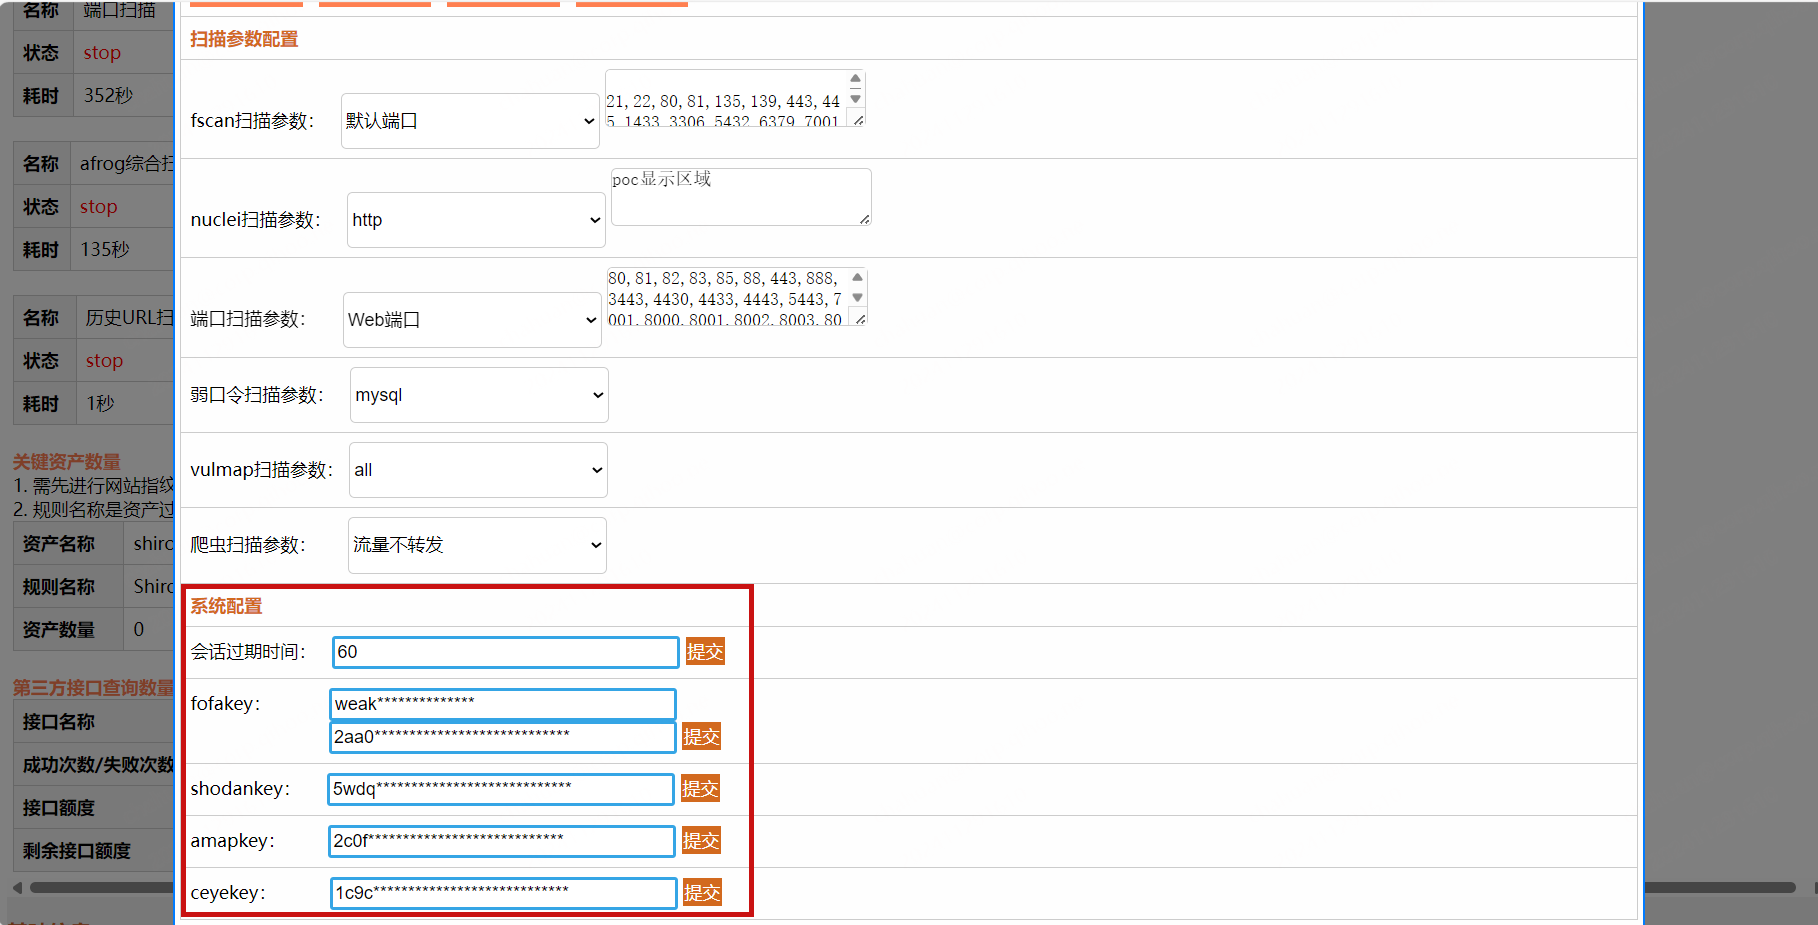
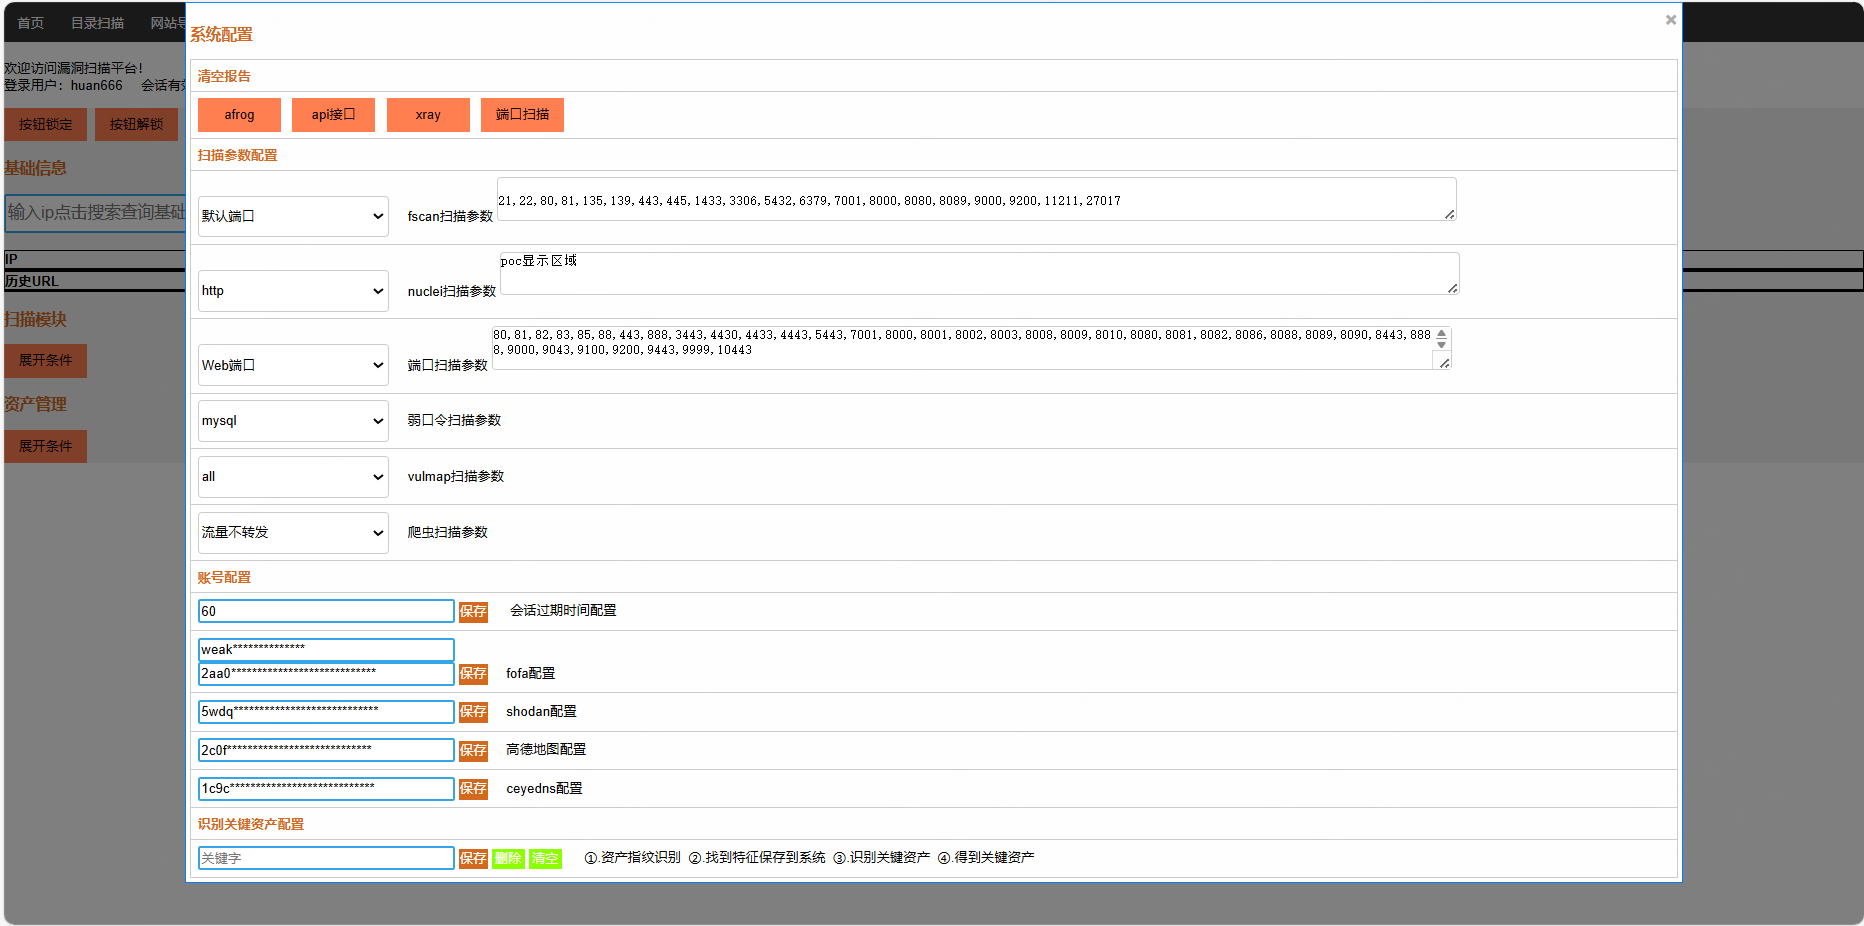
系统优化

Changed region(s): [[0.0, 0.0, 1.0, 1.0], [0.7701, 0.3632, 0.8009, 0.3935], [0.4004, 0.7265, 0.4312, 0.7568]]

diff --git a/templates/tanchuang.html b/templates/tanchuang.html
@@ -201,7 +201,9 @@
     <div class="modal-content1">
 
         <span class="close" onclick="stopscanconfigpagefunc()">&times;</span>
+        <h3>系统配置</h3>
         <table border="1">
+           
             <tr>
                 <td>
                     <strong style="color: chocolate;">清空报告</strong><br>
@@ -222,7 +224,7 @@
             </tr>
             <tr>
                 <td>
-                    fscan扫描参数：&nbsp;&nbsp;
+
                     <select name="fscanpartname" onmouseout="fscanportshowfunc()">
 
                         <option
@@ -246,6 +248,7 @@
                             常见RCE端口</option>
                         <option value="21,22,53,80,443,445,1433,3306,3389,8080">精简端口</option>
                     </select>
+                    &nbsp;&nbsp;&nbsp;&nbsp;fscan扫描参数
                     <textarea rows="3" cols="80" id="myTextarea2" onmouseover="fscantextarea_onhover()"
                         onmouseout="fscantextarea_onout()">
 							21,22,80,81,135,139,443,445,1433,3306,5432,6379,7001,8000,8080,8089,9000,9200,11211,27017</textarea>
@@ -253,7 +256,7 @@
             </tr>
             <tr>
                 <td>
-                    nuclei扫描参数：&nbsp;&nbsp;
+
                     <select name="poc_dir" onmouseenter="nuclei_poc_show_func()">
                         <option value="/root/nuclei-templates/http">http</option>
                         <option value="/root/nuclei-templates/http/cnvd">http_cnvd</option>
@@ -295,6 +298,7 @@
                         <option value="/root/nuclei-templates/config">config</option>
                         <option value="/root/nuclei-templates/code">code</option>
                     </select>
+                    &nbsp;&nbsp;&nbsp;&nbsp;nuclei扫描参数
                     <textarea rows="3" cols="80" id="myTextarea3" onmouseover="nucleitextarea_onhover()"
                         onmouseout="nucleitextarea_onout()">
 poc显示区域</textarea>
@@ -304,7 +308,7 @@ poc显示区域</textarea>
             </tr>
             <tr>
                 <td>
-                    端口扫描参数：&nbsp;&nbsp;&nbsp;&nbsp;
+
                     <select name="portscan_part" onmouseout="nmapportshowfunc()">
                         <option
                             value="80,81,82,83,85,88,443,888,3443,4430,4433,4443,5443,7001,8000,8001,8002,8003,8008,8009,8010,8080,8081,8082,8086,8088,8089,8090,8443,8888,9000,9043,9100,9200,9443,9999,10443">
@@ -321,6 +325,7 @@ poc显示区域</textarea>
                         <option value="21,22,53,80,443,445,1433,3306,3389,8080">精简端口</option>
                         <option value="1-65535">全端口</option>
                     </select>
+                    &nbsp;&nbsp;&nbsp;&nbsp;端口扫描参数
                     <textarea rows="3" cols="80" id="myTextarea1" onmouseover="nmaptextarea_onhover()"
                         onmouseout="nmaptextarea_onout()">
 80,81,82,83,85,88,443,888,3443,4430,4433,4443,5443,7001,8000,8001,8002,8003,8008,8009,8010,8080,8081,8082,8086,8088,8089,8090,8443,8888,9000,9043,9100,9200,9443,9999,10443
@@ -329,7 +334,7 @@ poc显示区域</textarea>
             </tr>
             <tr>
                 <td>
-                    弱口令扫描参数：&nbsp;&nbsp;
+
                     <select name="hydrapart">
                         <option value="1">mysql</option>
                         <option value="2">ssh</option>
@@ -337,12 +342,12 @@ poc显示区域</textarea>
                         <option value="4">redis</option>
                         <option value="5">mssql</option>
                     </select>
-
+                    &nbsp;&nbsp;&nbsp;&nbsp;弱口令扫描参数
 
                 </td>
             </tr>
             <tr>
-                <td>vulmap扫描参数：
+                <td>
                     <select name="vulnname">
                         <option value="all">all</option>
                         <option value="activemq">检查站点是否存在activemq漏洞</option>
@@ -375,65 +380,87 @@ poc显示区域</textarea>
                         <option value="qianxin">检查站点是否存在qianxin漏洞</option>
                         <option value="ruijie">检查站点是否存在ruijie漏洞</option>
                     </select>
+                    &nbsp;&nbsp;&nbsp;&nbsp;vulmap扫描参数
                 </td>
             </tr>
             <tr>
                 <td>
-                    爬虫扫描参数：&nbsp;&nbsp;&nbsp;&nbsp;&nbsp;
                     <select name="pachongselectpart" onmouseout="crawlergo_part_show()">
                         <option value="1">流量不转发</option>
                         <option value="2">流量转发</option>
                     </select>
+                    &nbsp;&nbsp;&nbsp;&nbsp;爬虫扫描参数
                     <span style="color: goldenrod;" id="crawlergo_part_show_part1"></span>
                     <span style="color: goldenrod;" id="crawlergo_part_show_part2"></span>
+                    
                 </td>
             </tr>
 
             <tr>
                 <td>
-                    <strong style="color: chocolate;">系统配置</strong><br>
+                    <strong style="color: chocolate;">账号配置</strong><br>
 
                 </td>
 
             </tr>
             <tr>
                 <td>
-                    会话过期时间：&nbsp;&nbsp;
+
                     <input type="text" class="my-input5" value="" id="sessionid1">
-                    <span class="my-span" onclick="startverifychearlogfunc('6')">提交</span>
-                </td>
-            </tr>
-            <tr>
-                <td>
-                    fofakey：&nbsp;&nbsp;&nbsp;&nbsp;&nbsp;&nbsp;&nbsp;&nbsp;&nbsp;&nbsp;
-                    <input type="text" class="my-input5" value="" id="sessionid2"><br>
-                    &nbsp;&nbsp;&nbsp;&nbsp;&nbsp;&nbsp;&nbsp;&nbsp;&nbsp;&nbsp;&nbsp;&nbsp;&nbsp;&nbsp;&nbsp;&nbsp;&nbsp;&nbsp;&nbsp;&nbsp;
+                    <span class="my-span" onclick="startverifychearlogfunc('6')">保存</span>
                     &nbsp;&nbsp;&nbsp;&nbsp;
+                    会话过期时间配置
+                </td>
+            </tr>
+            <tr>
+                <td>
+
+                    <input type="text" class="my-input5" value="" id="sessionid2"><br>
                     <input type="text" class="my-input5" value="" id="sessionid3">
-                    <span class="my-span" onclick="startverifychearlogfunc('7')">提交</span>
+                    <span class="my-span" onclick="startverifychearlogfunc('7')">保存</span>
+                    &nbsp;&nbsp;&nbsp;&nbsp;fofa配置
                 </td>
             </tr>
             <tr>
                 <td>
-                    shodankey：&nbsp;&nbsp;&nbsp;&nbsp;
                     <input type="text" class="my-input5" value="" id="sessionid4">
-                    <span class="my-span" onclick="startverifychearlogfunc('8')">提交</span>
+                    <span class="my-span" onclick="startverifychearlogfunc('8')">保存</span>
+                    &nbsp;&nbsp;&nbsp;&nbsp;shodan配置
                 </td>
             </tr>
 
             <tr>
                 <td>
-                    amapkey：&nbsp;&nbsp;&nbsp;&nbsp;&nbsp;&nbsp;&nbsp;
                     <input type="text" class="my-input5" value="" id="sessionid5">
-                    <span class="my-span" onclick="startverifychearlogfunc('9')">提交</span>
+                    <span class="my-span" onclick="startverifychearlogfunc('9')">保存</span>
+                    &nbsp;&nbsp;&nbsp;&nbsp;高德地图配置
                 </td>
             </tr>
 
             <tr>
                 <td>
-                    ceyekey：&nbsp;&nbsp;&nbsp;&nbsp;&nbsp;&nbsp;&nbsp;&nbsp;&nbsp;
+
                     <input type="text" class="my-input5" value="" id="sessionid6">
-                    <span class="my-span" onclick="startverifychearlogfunc('10')">提交</span>
+                    <span class="my-span" onclick="startverifychearlogfunc('10')">保存</span>
+                    &nbsp;&nbsp;&nbsp;&nbsp;ceyedns配置
+                </td>
+            </tr>
+            <tr>
+                <td>
+                    <strong style="color: chocolate;">识别关键资产配置</strong><br>
+                </td>
+            </tr>
+
+            <tr>
+                <td>
+                    <input type="text" placeholder="关键字" id="rule_input_id1" class="my-input5">
+                    <span class="my-span" onclick="add_rule_func()">保存</span>
+                    <span class="my-spann" onclick="delete_rule_func()">删除</span>
+                    <span class="my-spann" onclick="delete_rule_all_func()">清空</span>
+                    &nbsp;&nbsp;&nbsp;&nbsp;
+                    ①.资产指纹识别&nbsp;&nbsp;②.找到特征保存到系统&nbsp;&nbsp;③.识别关键资产&nbsp;&nbsp;④.得到关键资产
+                    &nbsp;&nbsp;&nbsp;&nbsp;
+                    <span id="filterruleid1" style="color: red;"></span>
                 </td>
             </tr>
         </table>
@@ -586,17 +613,13 @@ poc显示区域</textarea>
                 <td><span id="spp33" style="color:green"></span></td>
                 <td>
                     <span id="spp26"></span>
-                    <span class="my-span" onclick="shuaixuanrule()">编辑</span>
+                    <!-- <span class="my-span" onclick="shuaixuanrule()">编辑</span> -->
 
 
-                    <p style="display: none;" id="idp1">
+                    <!-- <p style="display: none;" id="idp1">
 
-                        <input type="text" placeholder="指纹识别结果-输入关键字-点击新增-识别关键资产" id="rule_input_id1" class="my-input">
-                        <span class="my-span" onclick="add_rule_func()">新增</span>
-                        <span class="my-spann" onclick="delete_rule_func()">删除</span>
-                        <span class="my-spannn" onclick="fanhuishuaixuanrule()">返回</span>
-                        <span class="my-spann" onclick="delete_rule_all_func()">清空</span>
-                    </p>
+                       
+                    </p> -->
 
 
                 </td>

diff --git a/static/js/common.js b/static/js/common.js
@@ -1239,19 +1239,6 @@ function restart_service_func() {
 }
 
 
-// 弹出编辑筛选规则页面
-function shuaixuanrule() {
-    var idp1 = document.getElementById("idp1");
-    idp1.style.display = "block";
-
-}
-
-// 隐藏编辑筛选规则页面
-function fanhuishuaixuanrule() {
-    var idp1 = document.getElementById("idp1");
-    idp1.style.display = "none";
-
-}
 
 // 初始状态
 function yincangtishifun() {
@@ -1275,11 +1262,12 @@ function add_rule_func() {
             rule: rule
         },
         success: function (info) {
-            alert(info.result_rule)
+            document.getElementById("filterruleid1").innerHTML = info.result_rule
+
         },
 
         error: function (info) {
-            alert("内部出错")
+            document.getElementById("filterruleid1").innerHTML = "内部错误"
         },
         complete: function () {
 

diff --git a/templates/index.html b/templates/index.html
@@ -35,7 +35,7 @@
 			<span class="my-spanconfig11" onclick="total_report_yulan_func()">报告预览</span>&nbsp;
 			<span class="my-spanconfig11" onclick="reportdownloadfunc()">报告下载</span>&nbsp;
 			<span class="my-spanconfig11" onclick="assetdownloadfunc()">资产下载</span>
-			<span onclick="startscanconfigpagefunc()" style="cursor: pointer;" class="my-spanconfig11">参数配置</span>&nbsp;
+			<span onclick="startscanconfigpagefunc()" style="cursor: pointer;" class="my-spanconfig11">系统配置</span>&nbsp;
 			<span onclick="hydradictfunc()" style="cursor: pointer;" class="my-spanconfig11">字典配置</span>
 
 			</di>

diff --git a/static/css/common.css b/static/css/common.css
@@ -405,6 +405,12 @@
 			font-size: medium;
 		}
 
+		my-input2{
+			height: 50px;
+			width: 800px;
+			font-size: medium;
+		}
+
 		.my-spann {
 			display: inline-block;
 			/* 使span可以设置宽高 */

diff --git a/readme.md b/readme.md
@@ -63,6 +63,11 @@ mysql账号密码：admin/123456<br>
 <h2>更新日志：</h2>
 <ul>
 <li>
+2025-2-11更新<br> 
+1.系统配置功能优化；<br>
+2.已知问题处理与优化；<br>
+</li>
+<li>
 2025-1-20更新<br> 
 1.新增通过shodan获取资产；<br>
 2.已知问题处理与优化；<br>
@@ -436,7 +441,7 @@ ES数据库漏洞扫描<br>
 <img src="https://raw.githubusercontent.com/huan-cdm/info_scan/main/images/wanhuscan.png" /><br><br>
 dnslog<br>
 <img src="https://raw.githubusercontent.com/huan-cdm/info_scan/main/images/ceyednslog.png" /><br><br>
-系统参数配置<br>
+系统配置<br>
 <img src="https://raw.githubusercontent.com/huan-cdm/info_scan/main/images/sys_part_conf.png" /><br><br>
 网站导航<br>
 <img src="https://raw.githubusercontent.com/huan-cdm/info_scan/main/images/daohang.png" /><br><br>
